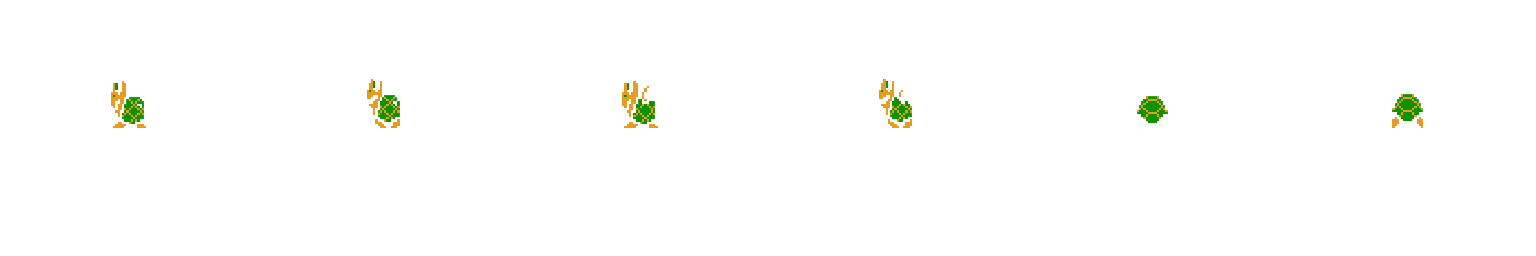
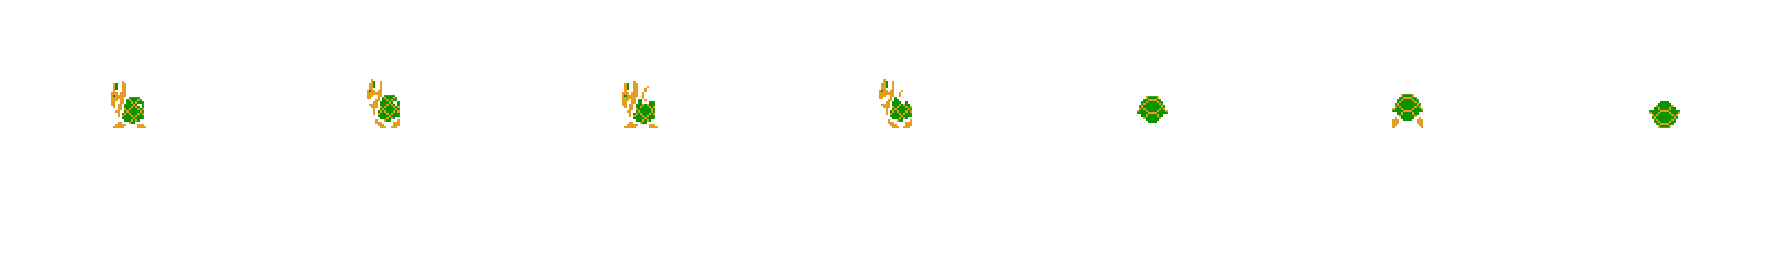
..

diff --git a/Mario/ContentsCore.cpp b/Mario/ContentsCore.cpp
@@ -48,12 +48,12 @@ void ContentsCore::BeginPlay()
 
 	UEngineResourcesManager::GetInst().CuttingImage("Mario_Right.png", 5, 7);
 	UEngineResourcesManager::GetInst().CuttingImage("Mario_Left.png", 5, 7);
-	UEngineResourcesManager::GetInst().CuttingImage("Goomba.png", 3,1);
-	UEngineResourcesManager::GetInst().CuttingImage("BlackGoomba.png", 3, 1);
-	UEngineResourcesManager::GetInst().CuttingImage("GreenTroopa_Left.png", 6, 1);
-	UEngineResourcesManager::GetInst().CuttingImage("GreenTroopa_Right.png", 6, 1);
-	UEngineResourcesManager::GetInst().CuttingImage("RedTroopa_Left.png", 6, 1);
-	UEngineResourcesManager::GetInst().CuttingImage("RedTroopa_Right.png", 6, 1);
+	UEngineResourcesManager::GetInst().CuttingImage("Goomba.png", 4,1);
+	UEngineResourcesManager::GetInst().CuttingImage("BlackGoomba.png", 4, 1);
+	UEngineResourcesManager::GetInst().CuttingImage("GreenTroopa_Left.png", 7, 1);
+	UEngineResourcesManager::GetInst().CuttingImage("GreenTroopa_Right.png", 7, 1);
+	UEngineResourcesManager::GetInst().CuttingImage("RedTroopa_Left.png", 7, 1);
+	UEngineResourcesManager::GetInst().CuttingImage("RedTroopa_Right.png", 7, 1);
 	UEngineResourcesManager::GetInst().CuttingImage("Plant.png", 2, 1);
 	UEngineResourcesManager::GetInst().CuttingImage("MarioBlock.png", 6, 1);
 	UEngineResourcesManager::GetInst().CuttingImage("MarioBrick.png", 5, 1);
@@ -79,10 +79,9 @@ void ContentsCore::BeginPlay()
 
 	CreateLevel<LoadingLevel>("Loading");
 	CreateLevel<UTitleLevel>("Title");
-	//CreateLevel<UPlayLevel>("Stage1");
-	CreateLevel<PlayLevel2>("Stage2");
+	CreateLevel<UPlayLevel>("Stage1");
 
-	ChangeLevel("Stage2");
+	ChangeLevel("Title");
 }
 
 void ContentsCore::Tick(float _DeltaTime)

diff --git a/Mario/Mario.cpp b/Mario/Mario.cpp
@@ -118,7 +118,26 @@ void Mario::Tick(float _DeltaTime)
 		GEngine->ChangeLevel("Loading");
 	}
 
-
+	if (UEngineInput::IsDown('0')) {
+		DebugMod++;
+		if (DebugMod == 3){
+			Debug = 0;
+		}
+		switch (DebugMod)
+		{
+		case 0:
+			SetMarioClassState(MarioClass::Small);
+			break;
+		case 1:
+			SetMarioClassState(MarioClass::Big);
+			break;
+		case 2:
+			SetMarioClassState(MarioClass::Fire);
+			break;
+		default:
+			break;
+		}
+	}
 
 
 	if (UEngineInput::IsDown('J')) {

diff --git a/Mario/Fire.cpp b/Mario/Fire.cpp
@@ -46,7 +46,7 @@ void AFire::Tick(float _DeltaTime)
 	float CameraX = GetWorld()->GetCameraPos().X;
 	float WindowCenter = GEngine->MainWindow.GetWindowScale().X;
 	float CurLocationX = GetActorLocation().X;
-	if (CameraX + WindowCenter < CurLocationX)
+	if (CameraX + WindowCenter < CurLocationX - 300)
 	{
 		Destroy();
 		return;

diff --git a/Mario/GreenTroopa.cpp b/Mario/GreenTroopa.cpp
@@ -29,6 +29,7 @@ void GreenTroopa::BeginPlay()
 	SetAnimation("Idle");
 	AnimationAuto(Renderer, "Crouch", 4, 4);
 	AnimationAuto(Renderer, "Fly", 2, 3, 0.2f);
+	AnimationAuto(Renderer, "Excute", 6, 6, 0.2f, false);
 }	
 
 void GreenTroopa::CollisionEvent(float _DeltaTime)

diff --git a/Mario/MonsterBase.cpp b/Mario/MonsterBase.cpp
@@ -283,6 +283,7 @@ void MonsterBase::DeadStart()
 void MonsterBase::ExcuteStart()
 {
 	BGMPlayer = UEngineSound::SoundPlay("Stomp.wav");
+	SetAnimation("Excute");
 	GravitySpeed.Y = 0.f;
 	SpeedX.X = 0.f;
 	SpeedY.Y = -500.f;

diff --git a/Mario/Mario.h b/Mario/Mario.h
@@ -112,6 +112,8 @@ protected:
 	float GodTime = 0.f;
 	float TeleportingTime = 1.f;
 	float EndingTime = 16.f;
+
+	int DebugMod = 0;
 private:
 	MarioState State = MarioState::None;
 	MarioState PrevState = MarioState::None;

diff --git a/Mario/RedTroopa.cpp b/Mario/RedTroopa.cpp
@@ -23,5 +23,6 @@ void RedTroopa::BeginPlay()
 	SetAnimation("Idle");
 	AnimationAuto(Renderer, "Crouch", 4, 4);
 	AnimationAuto(Renderer, "Fly", 2, 3, 0.2f);
+	AnimationAuto(Renderer, "Excute", 6, 6, 0.2f,false);
 }
 

diff --git a/Mario/MonsterGoomba.cpp b/Mario/MonsterGoomba.cpp
@@ -20,7 +20,7 @@ void MonsterGoomba::BeginPlay()
 	SetAnimation("Idle");
 
 	AnimationAuto(Renderer, "Dead", 2, 2);
-
+	AnimationAuto(Renderer, "Excute", 3, 3, 0.2f, false);
 
 }
 

diff --git a/Mario/GroundGoomba.cpp b/Mario/GroundGoomba.cpp
@@ -20,5 +20,6 @@ void GroundGoomba::BeginPlay()
 	SetAnimation("Idle");
 
 	AnimationAuto(Renderer, "Dead", 2, 2);
+	AnimationAuto(Renderer, "Excute", 3, 3, 0.2f, false);
 }
 
